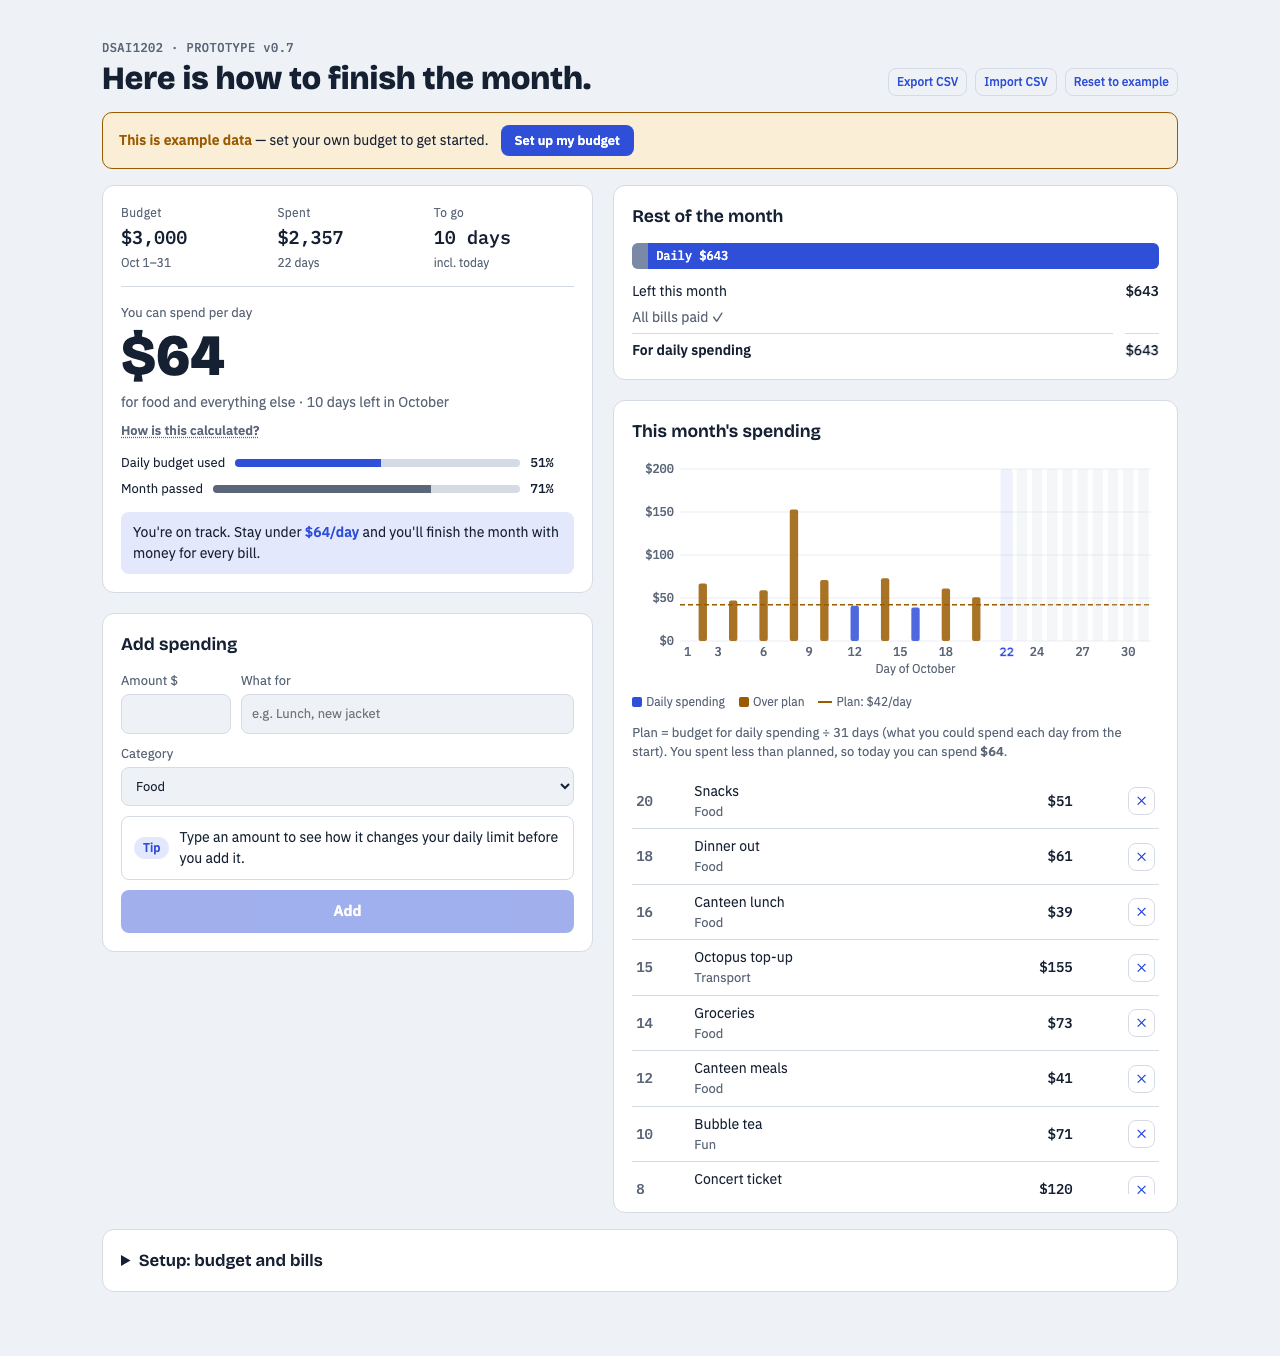
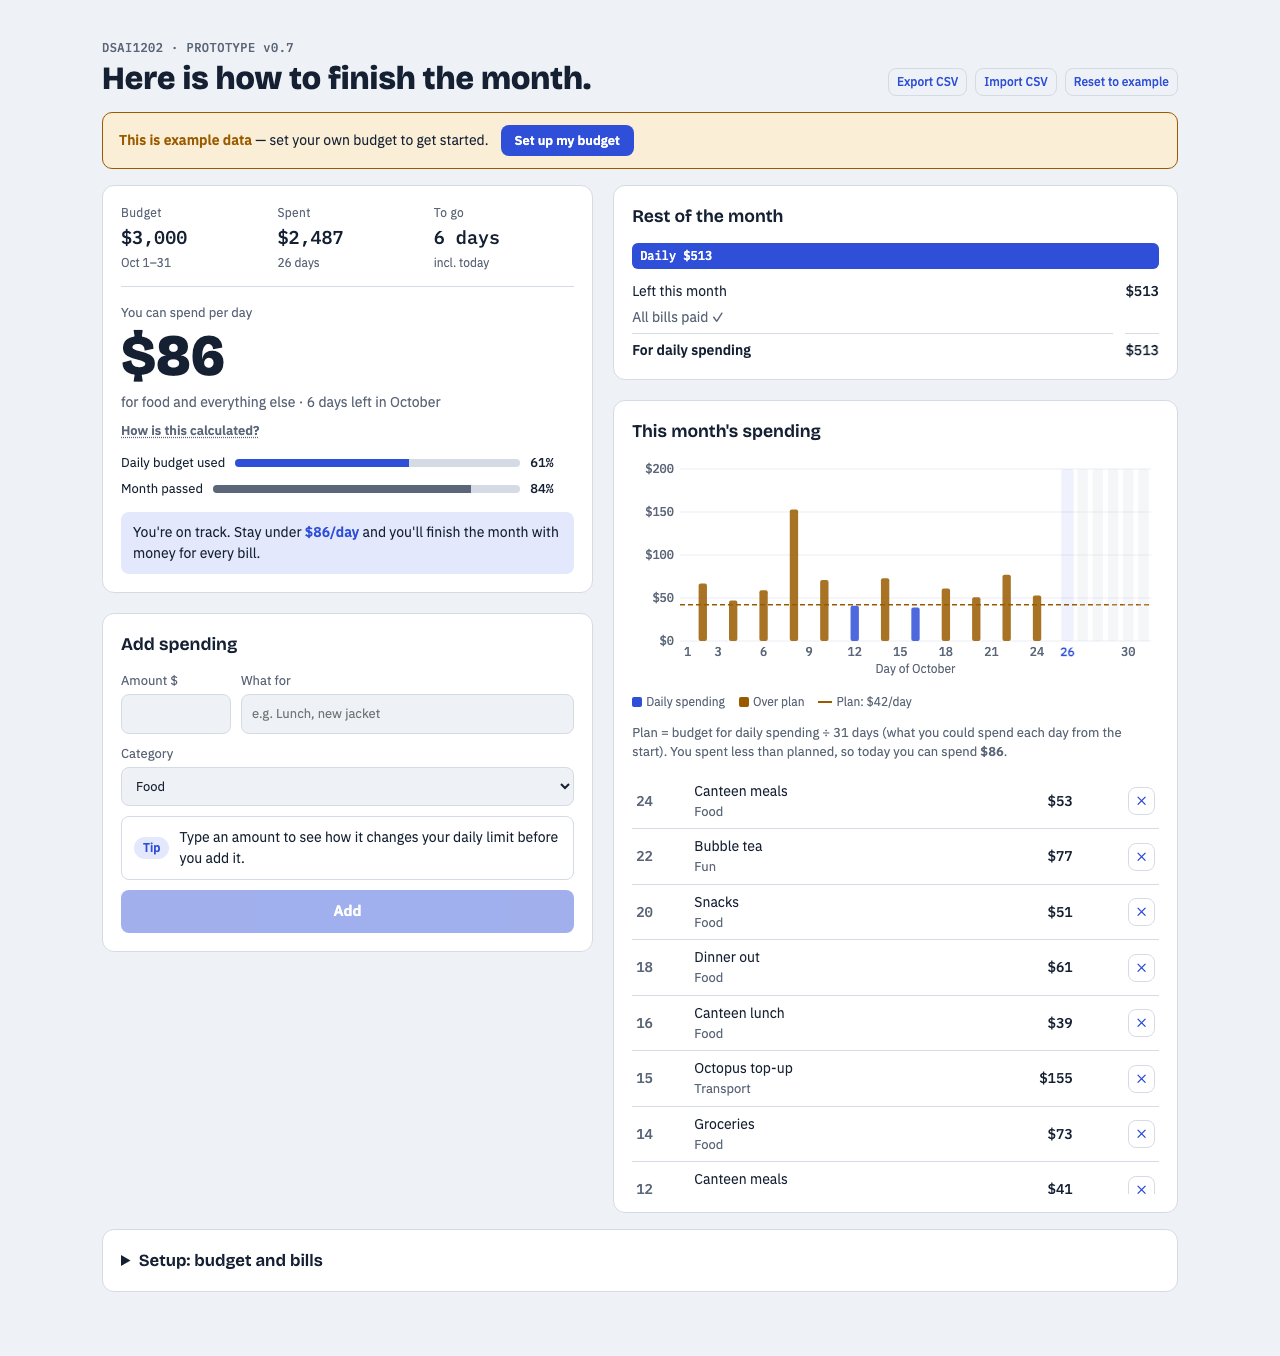
Fix $0 split-bar segment still rendering at 16px due to CSS padding
The bills segment in the "Rest of the month" bar had padding-inline:8px
which leaked through width:0 + border-box, rendering a visible 16px
colored sliver. Fixed by using display:none when a segment is $0, and
hiding text labels when a segment is <12% to prevent stray letters.

Verified with Playwright: screenshots at 1280/390px, light/dark mode,
plus programmatic measurements (getBoundingClientRect, font-size checks,
overlap detection). All pass.

diff --git a/index.html b/index.html
@@ -314,8 +314,12 @@ function render(){
 
   const tot=Math.max(1,c.billsLeft+Math.max(0,c.forDaily));
   const showBills=c.billsLeft>0,showDaily=c.forDaily>0;
-  $("splitR").style.width=showBills?(c.billsLeft/tot*100+"%"):"0";$("splitR").textContent=showBills?("Bills "+money(c.billsLeft)):"";
-  $("splitF").style.width=showDaily?(Math.max(0,c.forDaily)/tot*100+"%"):"0";$("splitF").textContent=showDaily?("Daily "+money(Math.max(0,c.forDaily))):"";
+  const billsPct=showBills?(c.billsLeft/tot*100):0;
+  const dailyPct=showDaily?(Math.max(0,c.forDaily)/tot*100):0;
+  $("splitR").style.display=showBills?"":"none";
+  $("splitR").style.width=billsPct+"%";$("splitR").textContent=billsPct>12?("Bills "+money(c.billsLeft)):"";
+  $("splitF").style.display=showDaily?"":"none";
+  $("splitF").style.width=dailyPct+"%";$("splitF").textContent=dailyPct>12?("Daily "+money(Math.max(0,c.forDaily))):"";
   const unpaid=c.bills.filter(b=>b.left>0);
   $("planKv").innerHTML=`<span>Left this month</span><span class="num">${money(c.remaining)}</span>`+
     (unpaid.length?unpaid.map(b=>`<span class="muted">\u2212 ${esc(b.name)} still to pay</span><span class="num muted">${money(b.left)}</span>`).join("")

diff --git a/docs/ai-log.md b/docs/ai-log.md
@@ -61,3 +61,10 @@ AI did: shortened stat descriptions, hid $0 split segments, switched SVG from vi
 Problem / what we checked: (1) chart text was requested at 12px twice before but SVG viewBox scaling shrank it — AI hadn't realized the viewBox was downscaling fonts. Fixed by using `width`/`height` attributes instead. (2) "79% budget used" included rent paid on day 1, contradicting the chart note "you spent less than planned". Changed pace to track daily categories only vs daily budget. (3) Previous fixes (nowrap on stats) caused a new overlap — this round AI checked screenshots before reporting done.
 What we decided and why: (Petr to fill)
 Lesson: (Petr to fill)
+
+## 2026-10-26 · Petr · Claude Code
+Asked AI to: verify all v0.7 fixes actually work by taking Playwright screenshots and measuring elements, then fix anything still broken.
+AI did: took screenshots at 1280px and 390px (light+dark). Ran programmatic checks: (1) stats — no overlap, no clipping. (2) chart labels — font-size 12, rendered 15px bounding box — confirmed readable. (3) messages — "61% daily budget used" < "84% month passed" → "on track" → "spent less than planned" — all consistent. (4) split bar — discovered the $0 bills segment was **still 16px wide** because `padding-inline:8px` with `box-sizing:border-box` and `width:0` doesn't collapse to 0. Fixed by using `display:none` when a segment is $0, and hiding text when a segment is <12% wide to prevent stray letters.
+Problem / what we checked: v0.7 claimed to fix $0 segments, but the CSS padding bug meant the bills segment still rendered at 16px despite `width:0`. Playwright `getBoundingClientRect()` caught what visual inspection missed. After the fix, bills segment measured 0px at both viewports.
+What we decided and why: (Petr to fill)
+Lesson: (Petr to fill)
